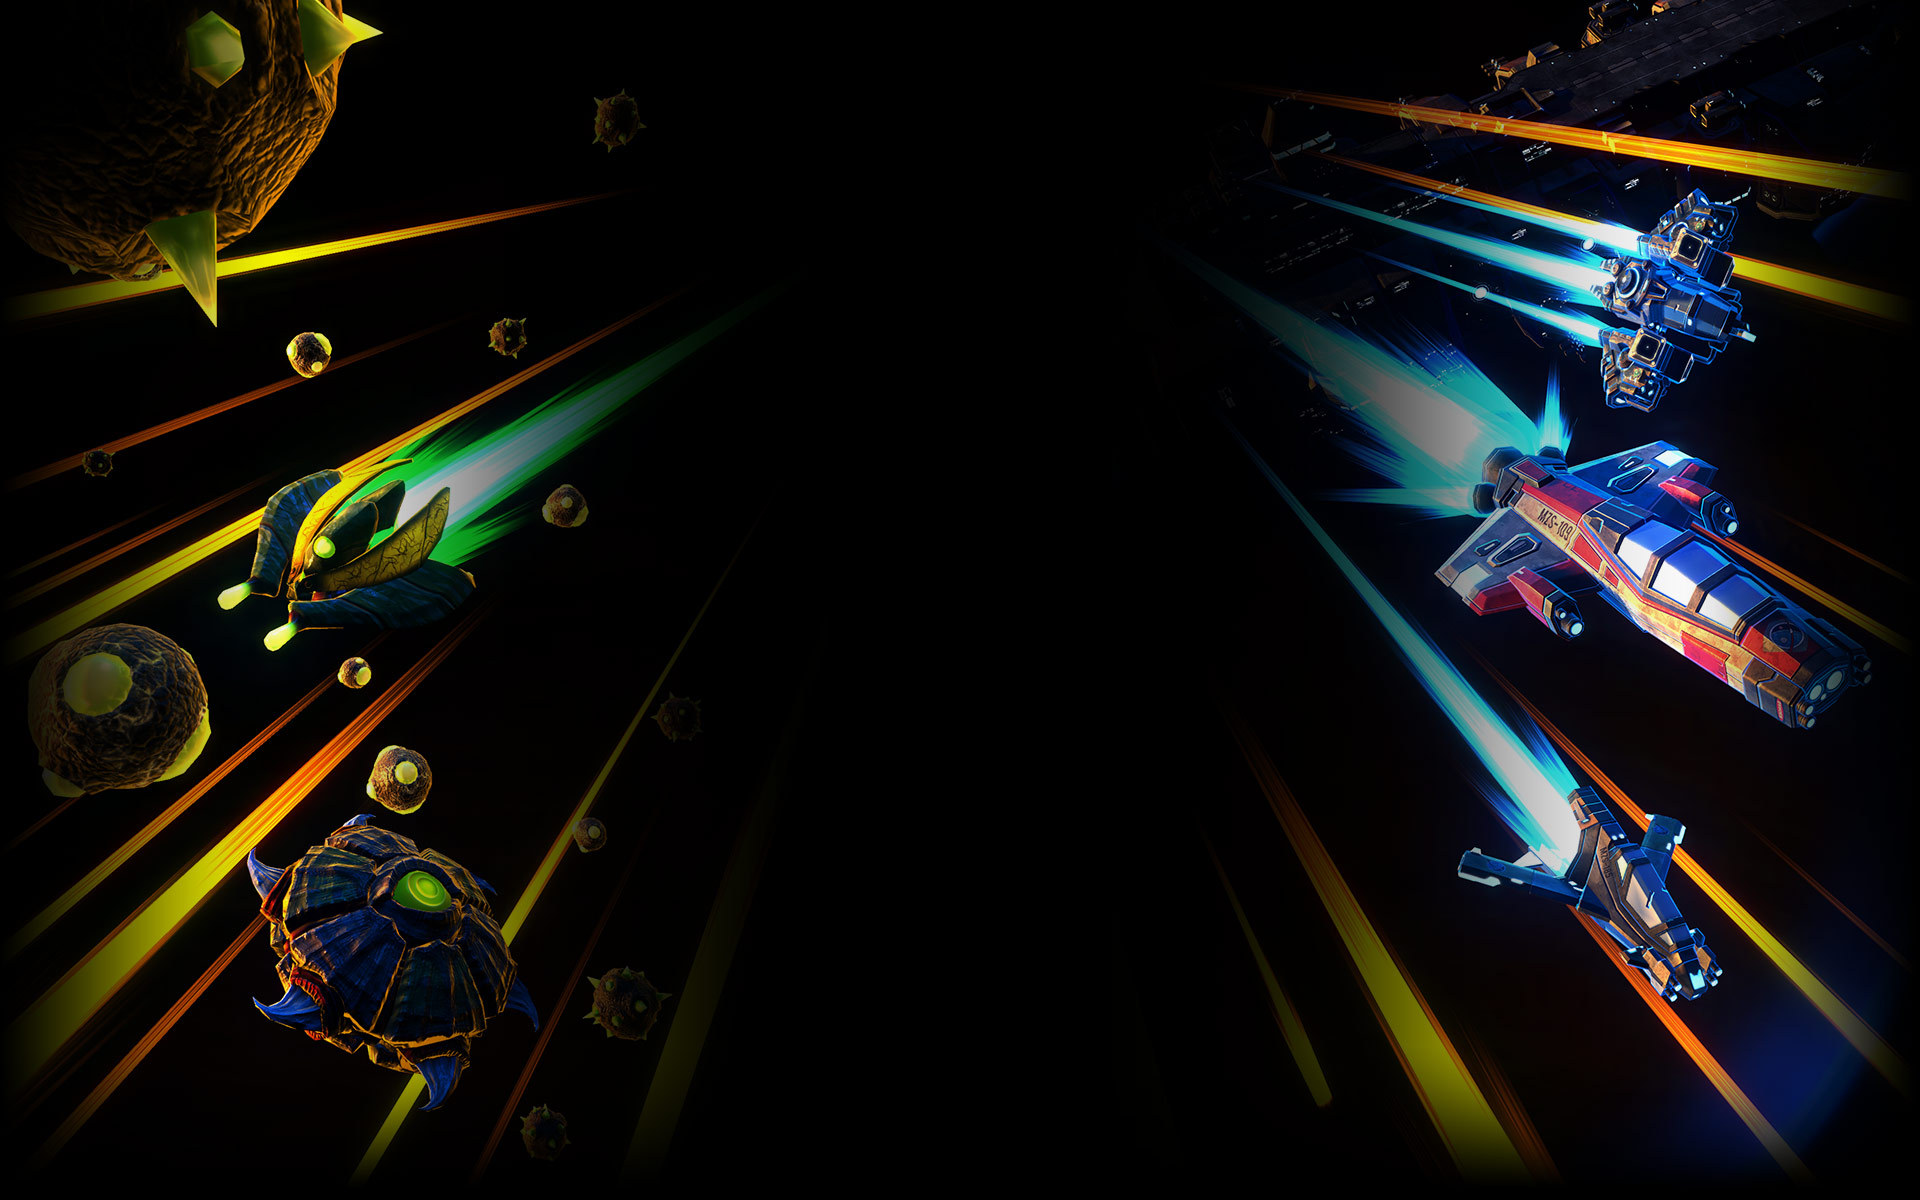
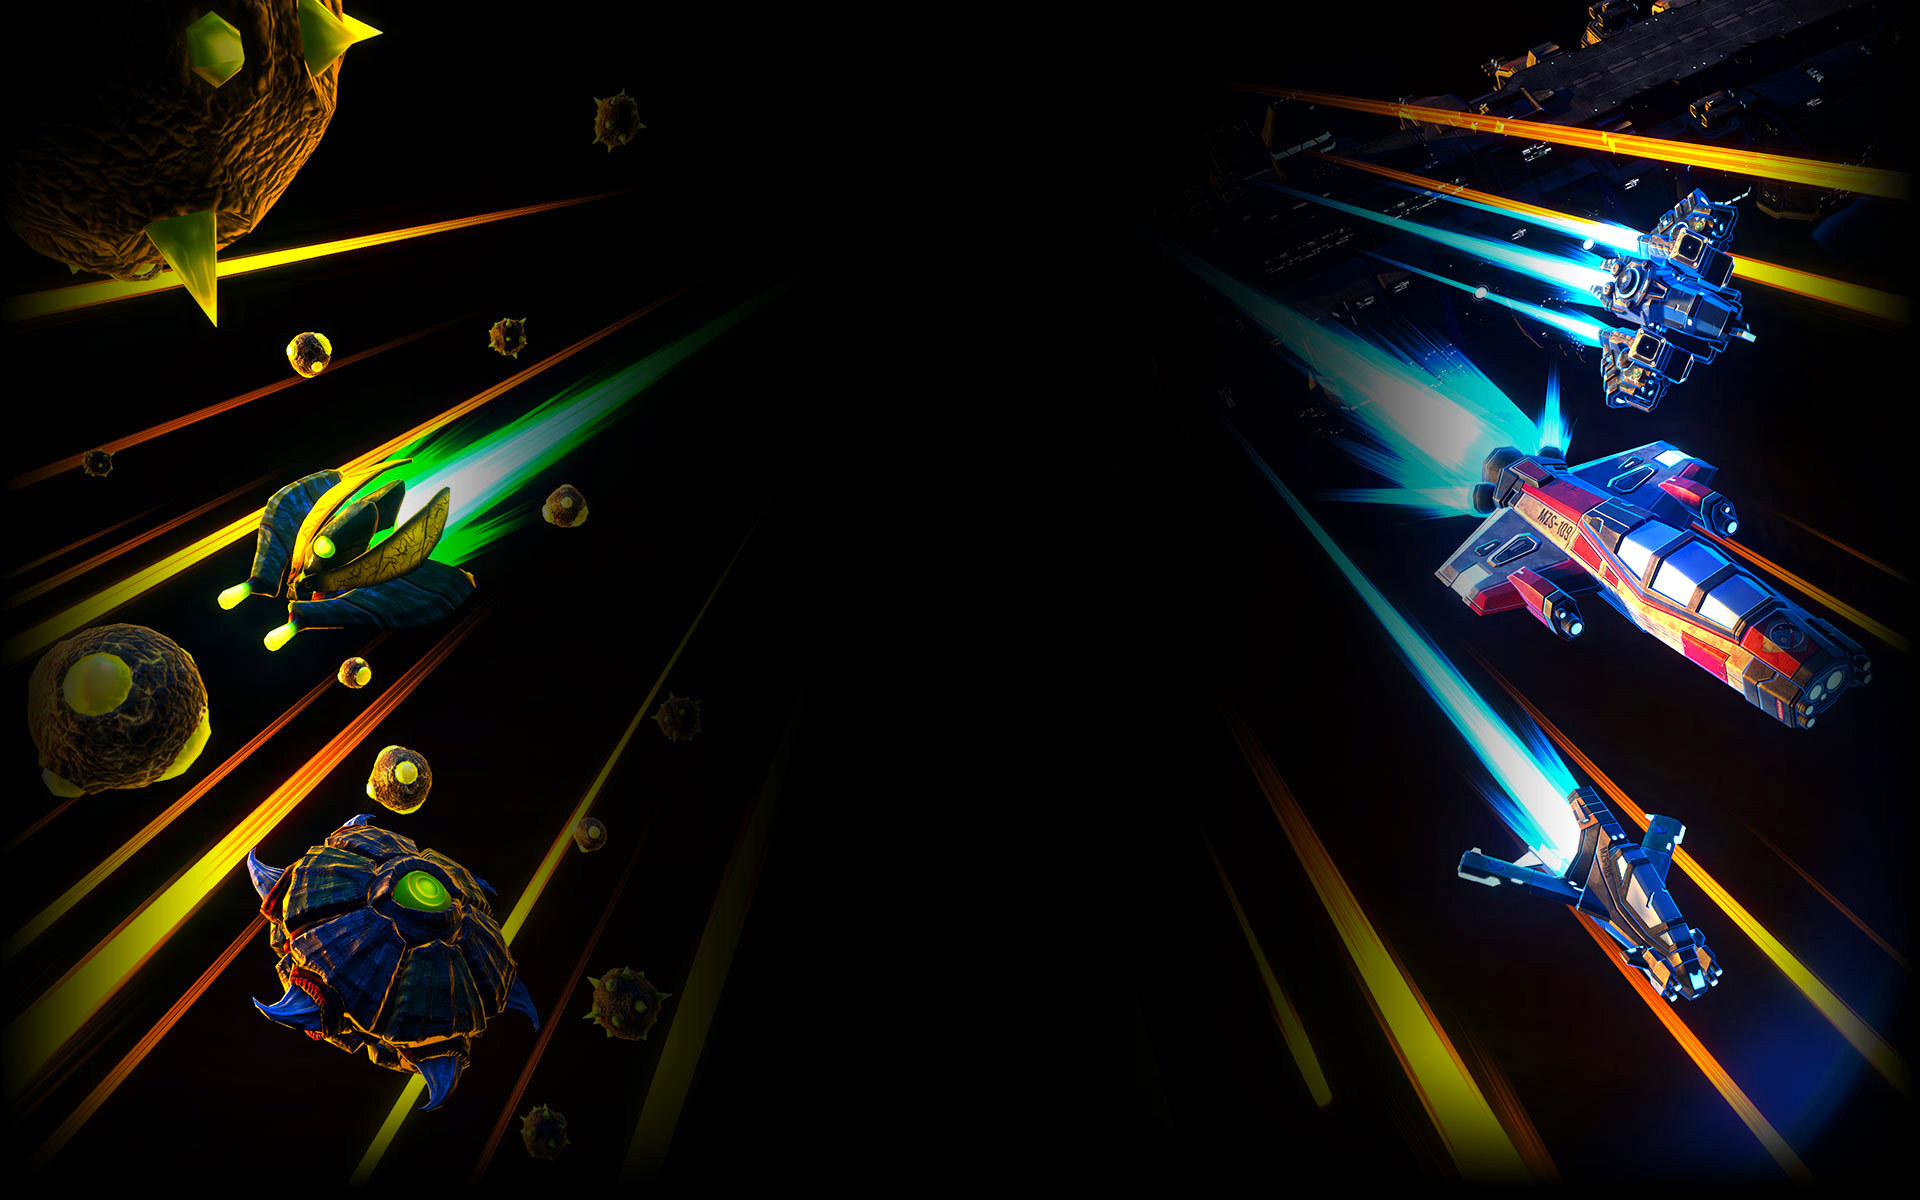
dim the background image on game over

diff --git a/bundle.js b/bundle.js
@@ -126,7 +126,7 @@ eval("class Brick {\n    constructor(ctx, brickWidth, brickHeight, x, y) {\n    
 /*! no static exports found */
 /***/ (function(module, exports, __webpack_require__) {
 
[2 lines of base64/hex data omitted]
 
 /***/ }),
 

diff --git a/components/game.js b/components/game.js
@@ -5,7 +5,9 @@ const Paddle = require('./paddle');
 
 class Game {
   constructor(canvas, ctx, canvasW, canvasH ){
-    this.requestId = null;
+    this.over = false;
+    this.background = new Image();
+    this.background.src = 'images/canvas-background-copy.jpg';
     this.image = null;
     this.canvas = canvas;
     this.ctx = ctx;
@@ -22,7 +24,6 @@ class Game {
     this.brickOffsetTop = 58;
     this.brickOffsetLeft= 38;
 
-    // this.score = new Score(ctx);
     this.paddle = new Paddle(ctx, canvasW, canvasH);
     this.x = canvasW/2 ;
     this.y = canvasH - 38;
@@ -61,17 +62,13 @@ class Game {
     document.addEventListener("mousemove", this.mouseMoveHandler.bind(this), false);
 
 }
-
   movePaddle(){
-    // if (this.paddle.paddleX > this.paddle.paddleWidth/2 && this.paddle.paddleX < this.canvasW - this.paddle.paddleWidth/2 ) {
       if ( this.rightPressed && this.paddle.paddleX + this.paddle.paddleWidth <= this.canvasW - 7) {
       this.paddle.paddleX+= 8;
     } else if ( this.leftPressed && this.paddle.paddleX > 7) {
       this.paddle.paddleX-= 8;
       }
     }
-  // }
-
   createBricks() {
     for( let c = 0; c < 3; c++ ) {
       for ( let r = 0; r < 8; r ++) {
@@ -81,7 +78,6 @@ class Game {
         this.bricks.push(brick);
       }
     }
-
   }
   drawScore() {
     this.ctx.font = '16px Arial';
@@ -96,16 +92,6 @@ class Game {
   drawBricks(){
       this.bricks.forEach( brick => brick.drawBrick());
   }
-  // moveBall() {
-  //   if ( this.ball.x > 0 && this.ball.x < this.canvasW && this.ball.y < this.canvasH)
-  //   this.ball.x += 2;
-  //   this.ball.y += -2;
-  // }
-  // resetGame(){
-  //   this.ball.x = this.x;
-  //   this.ball.y = this.y;
-  //   this.paddle.paddleX =
-  // }
   drawBall(){
     this.ctx.drawImage( this.ball.image, this.ball.x-this.ball.ballRadius, this.ball.y+5, this.ball.ballWidth, this.ball.ballHeight);
     if ( this.ball.x > 0 && this.ball.x < this.canvasW && this.ball.y < this.canvasH)
@@ -123,20 +109,13 @@ class Game {
     this.bricks.forEach( brick => {
       if (this.ball.y + this.ball.ballHeight >= brick.brickY && this.ball.y <= brick.brickY + brick.brickHeight
         && this.ball.x + this.ball.ballRadius > brick.brickX && this.ball.x - this.ball.ballRadius< brick.brickX + brick.brickWidth && brick.destroyed === false) {
-          // this.ctx.beginPath();
-          // this.ctx.rect(brick.brickX, brick.bricky, brick.brickWidth, brick.brickHeight);
-          // this.ctx.fillStyle = 'red';
-          // this.ctx.fill();
-          // this.ctx.closePath();
           this.score += 250;
         brick.destroyed = true;
-        // this.bricks.
         if (notDestroyed) {
           this.ball.dy = -this.ball.dy;
           notDestroyed = false;
         }
         console.log(this.ball.dy);
-        // this.animate();
       }
     }
   );
@@ -151,32 +130,36 @@ class Game {
         }
       } else {
         this.lives -= 1;
-        // this.gameOver();
-        // this.resetGame();
         this.paddle = new Paddle(this.ctx, this.canvasW, this.canvasH);
         this.ball = new Ball(this.ctx, this.canvasW, this.canvasH, this.x, this.y);
       }
     }
   }
   gameOver() {
+    this.image = new Image();
     if (this.score === 250 * this.brickColumnCount * this.brickRowCount  ) {
-      this.image = new Image();
+      this.over = true;
+      this.ctx.drawImage( this.background, 0 , 0, this.canvasW, this.canvasH);
+      this.drawScore();
+      this.drawLives();
+      this.drawBricks();
+      this.drawBall();
+        this.paddle.drawPaddle();
       this.image.src = './images/you-win.png';
       this.ctx.drawImage( this.image, this.canvasW/2 - 200 , this.canvasH/2 - 50, 380, 110);
-      cancelAnimationFrame();
+      // cancelAnimationFrame();
     } else if (this.lives === 0) {
-          this.ctx.clearRect(0, 0, this.canvasW, this.canvasH);
+      this.over = true;
+          // this.ctx.clearRect(0, 0, this.canvasW, this.canvasH);
+          this.ctx.drawImage( this.background, 0 , 0, this.canvasW, this.canvasH);
           this.drawScore();
           this.drawLives();
           this.drawBricks();
           this.drawBall();
             this.paddle.drawPaddle();
-      this.image = new Image();
       this.image.src = './images/game-over.png';
       this.ctx.drawImage( this.image, this.canvasW/2 -100 , this.canvasH/2 - 80, 245, 245);
-      // this.drawLives();
-      // this.ctx.clearRect(this.canvasW - 100, 30, this.canvasW, this.canvasH);
-      cancelAnimationFrame();
+      // cancelAnimationFrame();
     }
   }
   animate() {
@@ -189,7 +172,9 @@ class Game {
     this.movePaddle();
     this.collisionDetection();
     this.gameOver();
+    if ( !this.over )  {
     requestAnimationFrame(this.animate.bind(this));
+    }
   }
 }
 

diff --git a/index.html b/index.html
@@ -10,8 +10,9 @@
     <script type="text/javascript" src='./bundle.js'>
     </script>
     <img className='arcade-box' src='./images/arcade-box.png'/>
-    <img src="./images/game-over.png" width='0' height='0 'alt="">
-    <img src="./images/you-win.png" width='0' height='0 'alt="">
+    <img src="./images/game-over.png" width='0' height='0' alt="">
+    <img src="./images/you-win.png" width='0' height='0' alt="">
+    <!-- <img src="./images/canvas-background-copy.jpg" width='0' height='0 ' alt=""> -->
     <div class="how-to-play">
       <h2 class='title'>How to Play</h2>
       <div class='instruction-body'>
